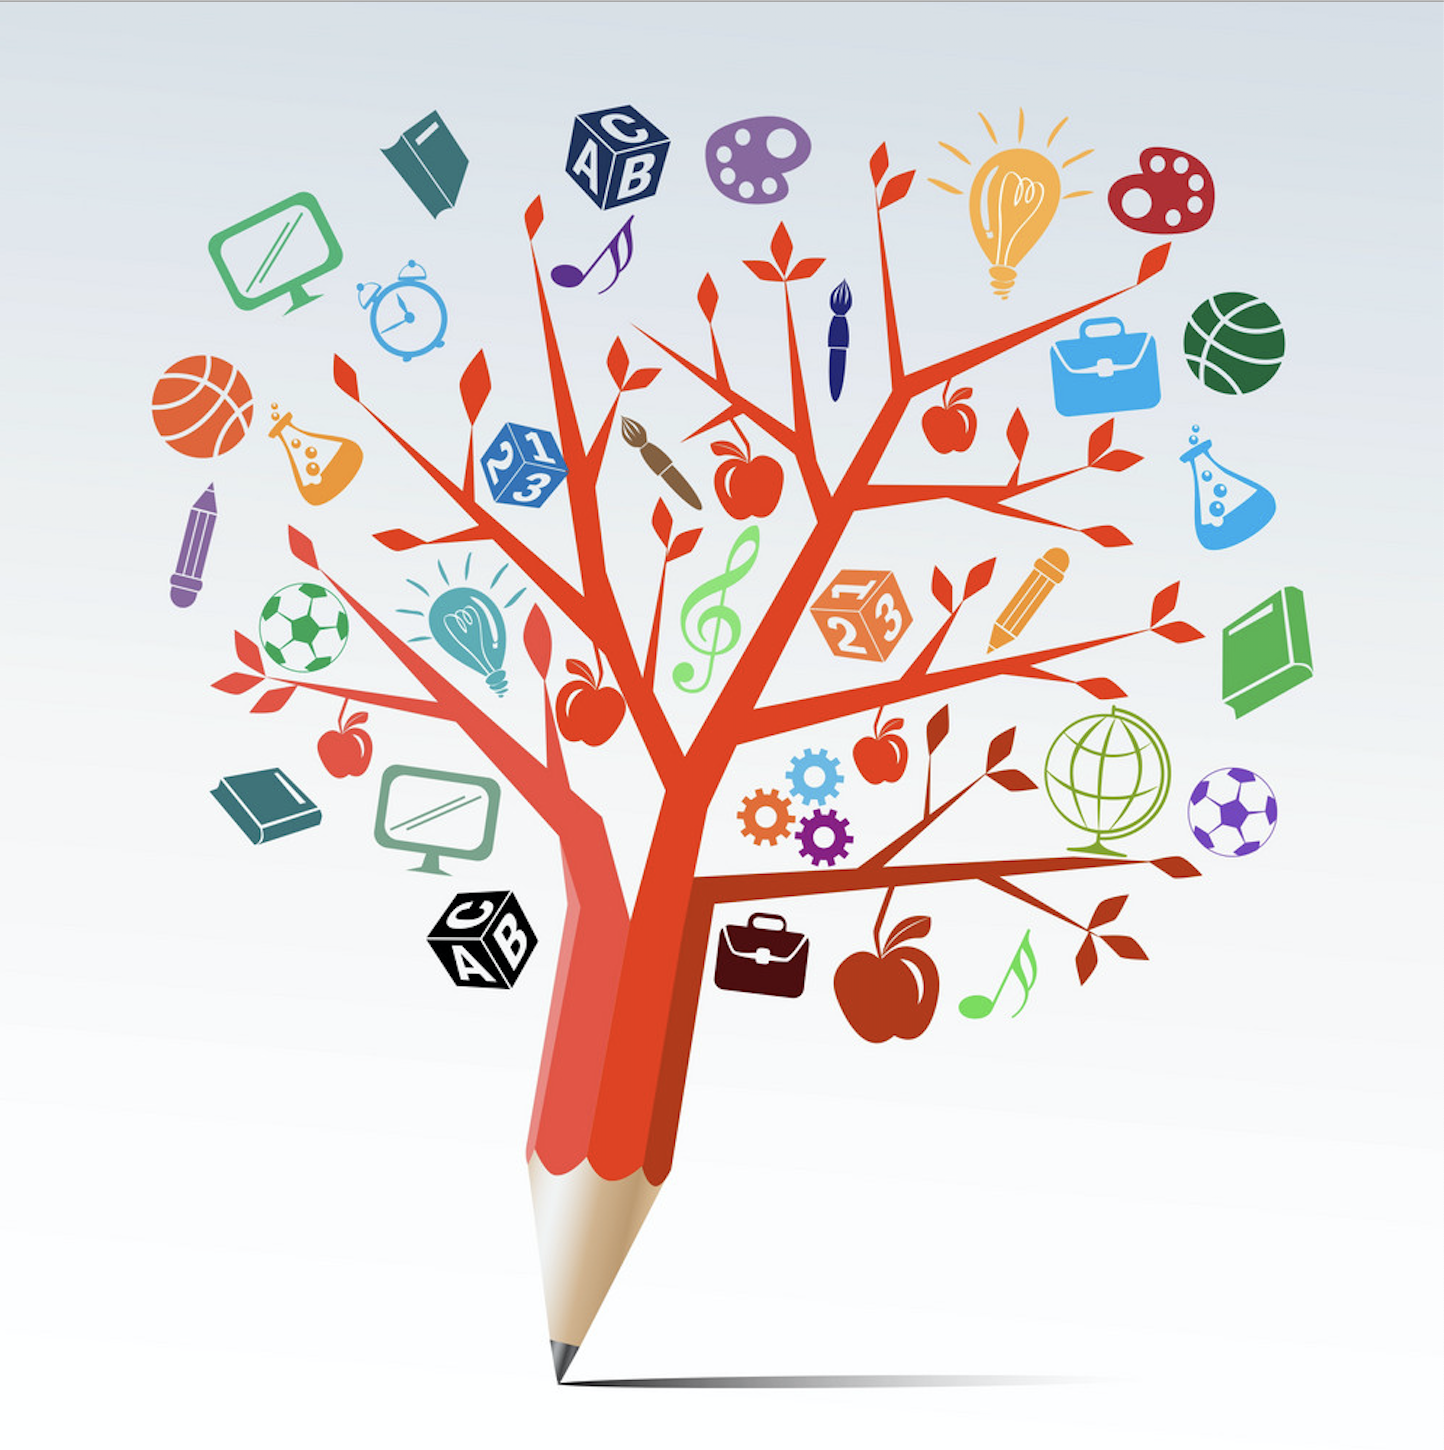
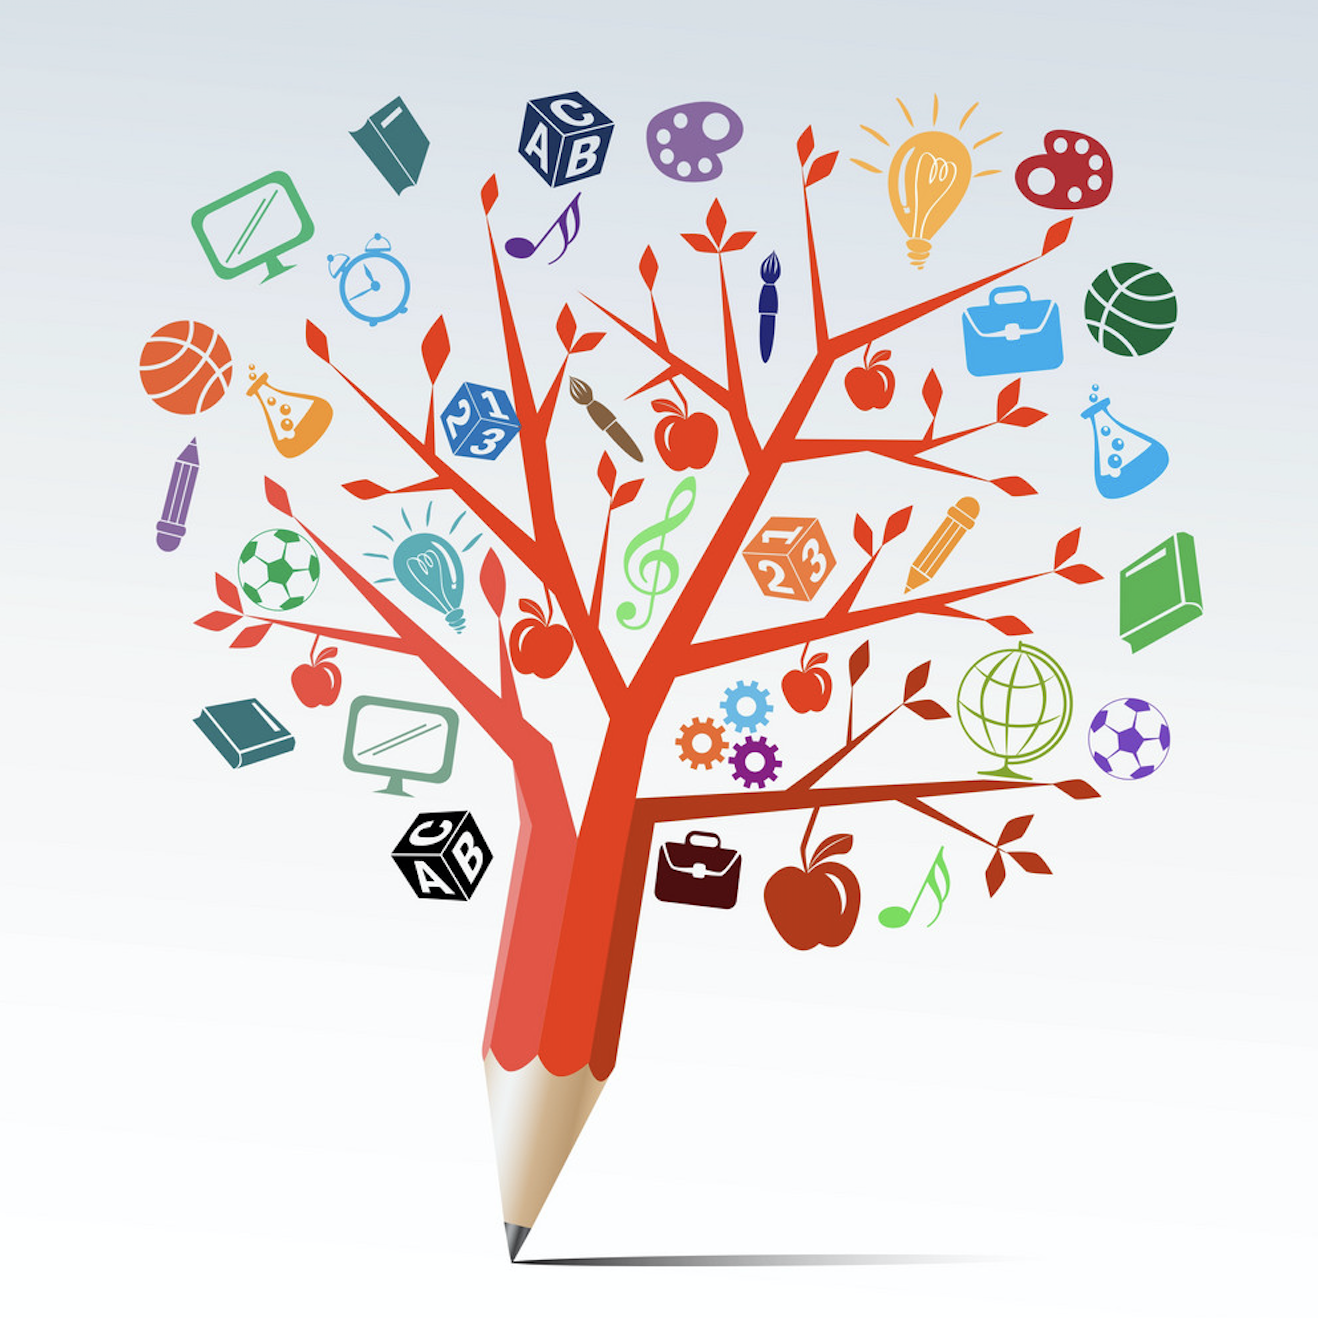
playing with styling for welcome page

diff --git a/src/components/TeacherSide/WelcomePage/WelcomePage.js b/src/components/TeacherSide/WelcomePage/WelcomePage.js
@@ -15,7 +15,6 @@ import CardHeader from '@material-ui/core/CardHeader';
 import CardMedia from '@material-ui/core/CardMedia';
 import CardContent from '@material-ui/core/CardContent';
 import CardActions from '@material-ui/core/CardActions';
-import { unstable_Box as Box } from '@material-ui/core/Box';
 
 
 
@@ -30,54 +29,45 @@ class WelcomePage extends Component {
     const { classes } = this.props;
     return (
       <section>
-        <NavBar/>
+        {/* <NavBar/> */}
+        {/* <img src="/images/Activated.png"></img> */}
         <Paper elevation = '0'>
           <Typography className={classes.name} variant="h4">Welcome {this.props.reduxState.teacher.first_name}</Typography>
         </Paper>
         <Grid
           container
-          direction="row"
+          direction="rows"
+          justify="space-between"
+          alignItems="flex-end"
+          spacing={40}
+        >
+        {/* <Grid
+          container
+          direction="rows"
           justify="flex-start"
           alignItems="flex-start"
-          spacing={24}
-        >
-        <Grid item xs={6} >
-        <Box className={classes.boxSize}>
-          <Card className={classes.educationCard} elevation={1}>
-            <CardMedia
-              component="img"
-              alt="Project Screenshot"
-              className={classes.media}
-              image='/images/pencil.png'
-            /> 
-            <CardContent>
-            <Button>Create Activator</Button>
-            </CardContent>
-            
-          </Card>
-          </Box>
+          spacing={8}> */}
+            <Grid
+            item xs={6}>
+              <Paper className={classes.treePaper} elevation={0}><img src="/images/education_tree_concept_.jpg"></img></Paper>
+            </Grid>
+        {/* </Grid> */}
         
-        </Grid>
-        <Grid item xs={6}>
-            <Card className={classes.educationCard} elevation={1}>
-                <CardMedia
-                  component="img"
-                  alt="Project Screenshot"
-                  className={classes.media}
-                  image='/images/graphs.png'
-                /> 
-                <CardContent>
-                <Button>See Class Data</Button>
-                </CardContent>
-                
-                
-              </Card>
-
-
-
+        <Grid 
+          item xs={6}
+          >
         
+            <Grid
+            item xs={6} column>
+              <Paper className={classes.pencilPaper} elevation={0}><img src="/images/lightbulbFormatted.png"></img></Paper>
+            </Grid>
+
+            <Grid
+            item xs={6} column>
+              <Paper className={classes.dataPaper} elevation={0}><img src="/images/graphFormatted.png"></img></Paper>
+            </Grid>
         </Grid>
-        </Grid>
+      </Grid>
 
 
     
@@ -88,27 +78,27 @@ class WelcomePage extends Component {
 }
 
 const styles = theme => ({
-  education: {
-    backgroundImage: "url('/images/educationImage.png')",
-    // backgroundColor: '#D60E54
+
+
+  treePaper:{
+    // height: '100vw',
+    // width: '100%',
+    // backgroundImage: "url('/images/education_tree_concept_.jpg')",
+    // backgroundRepeat: 'no-repeat',
   },
-  media:{
-    height: 'auto',
-    width: '100%',
-    margin:'0 auto',       
+  pencilPaper:{
+    // height: '100vw',
+    // width: '100%',
+    // backgroundImage: "url('/images/create-an-activitor.png')",
+    // backgroundRepeat: 'no-repeat',
   },
-  name: {
-    textAlign: 'center',
-    margin: '2%',
+  dataPaper:{
+    // height: '100vw',
+    // width: '100%',
+    // backgroundImage: "url('/images/graphs.png')",
+    // backgroundRepeat: 'no-repeat',
   },
-  educationCard:{
-    width: '100%',
-    margin: '0 auto',
-    height: '50%',
-  },
-  boxSize:{
-    
-  }
+
 
   })
 
